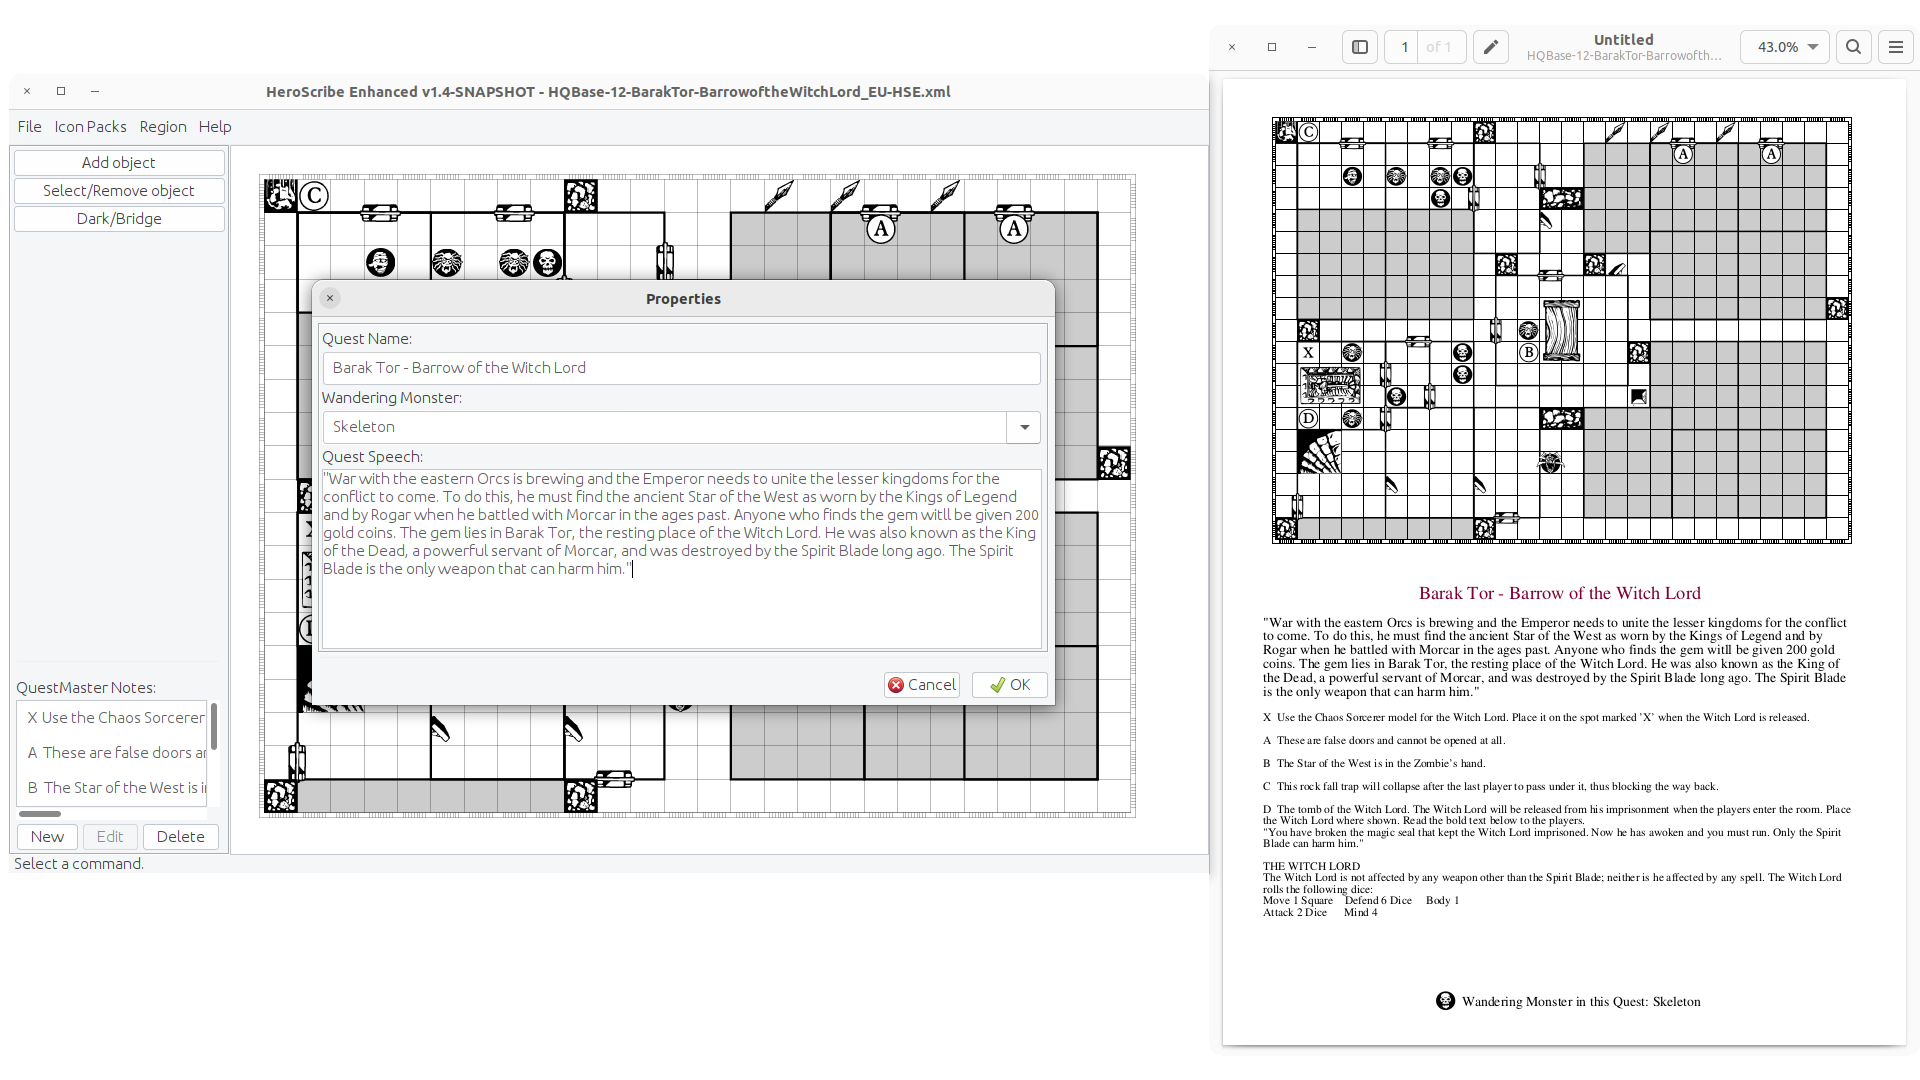
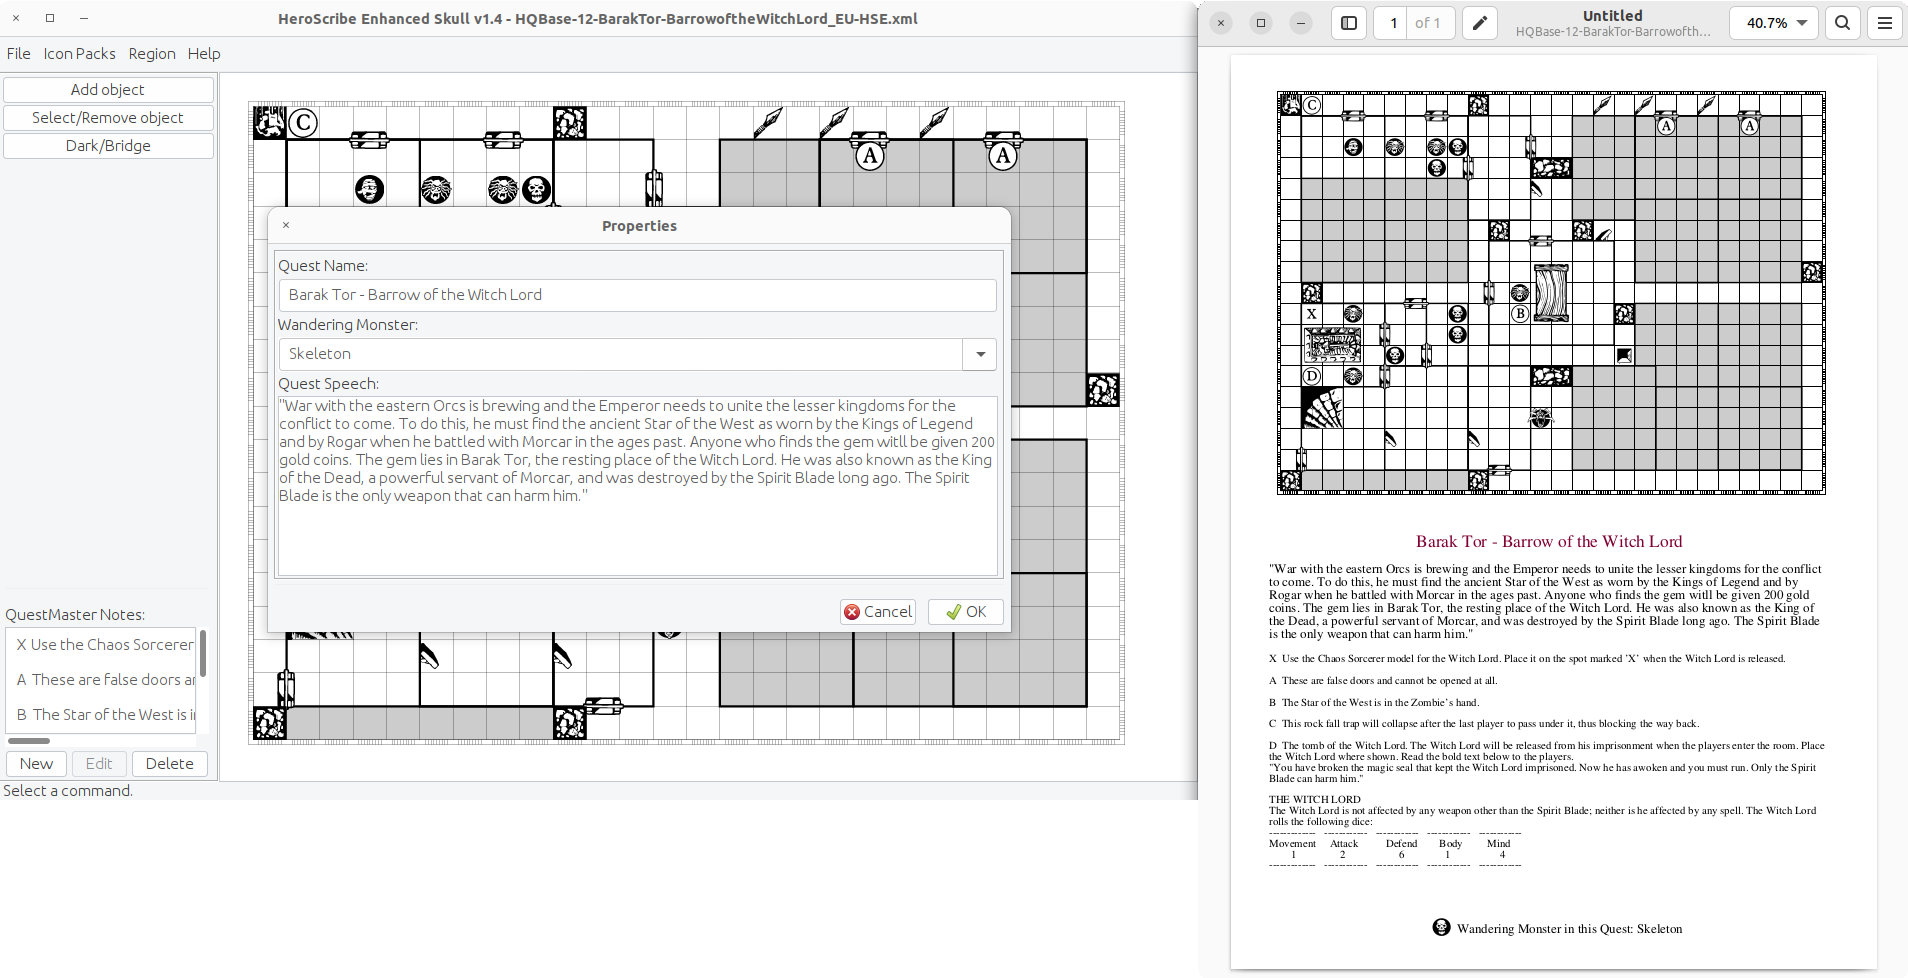
readme - update screenshot

diff --git a/README.md b/README.md
@@ -1,5 +1,7 @@
 # Heroscribe Enhanced Skull
 
+<img src="src/main/resources/Splash.jpg" width="201" height="160">
+
 ![Heroscribe Enhance UI and PDF export](screenshot.png)
 
 Changes in HeroScribeEnhanced-1.0, by 2011 Jason Allen.
